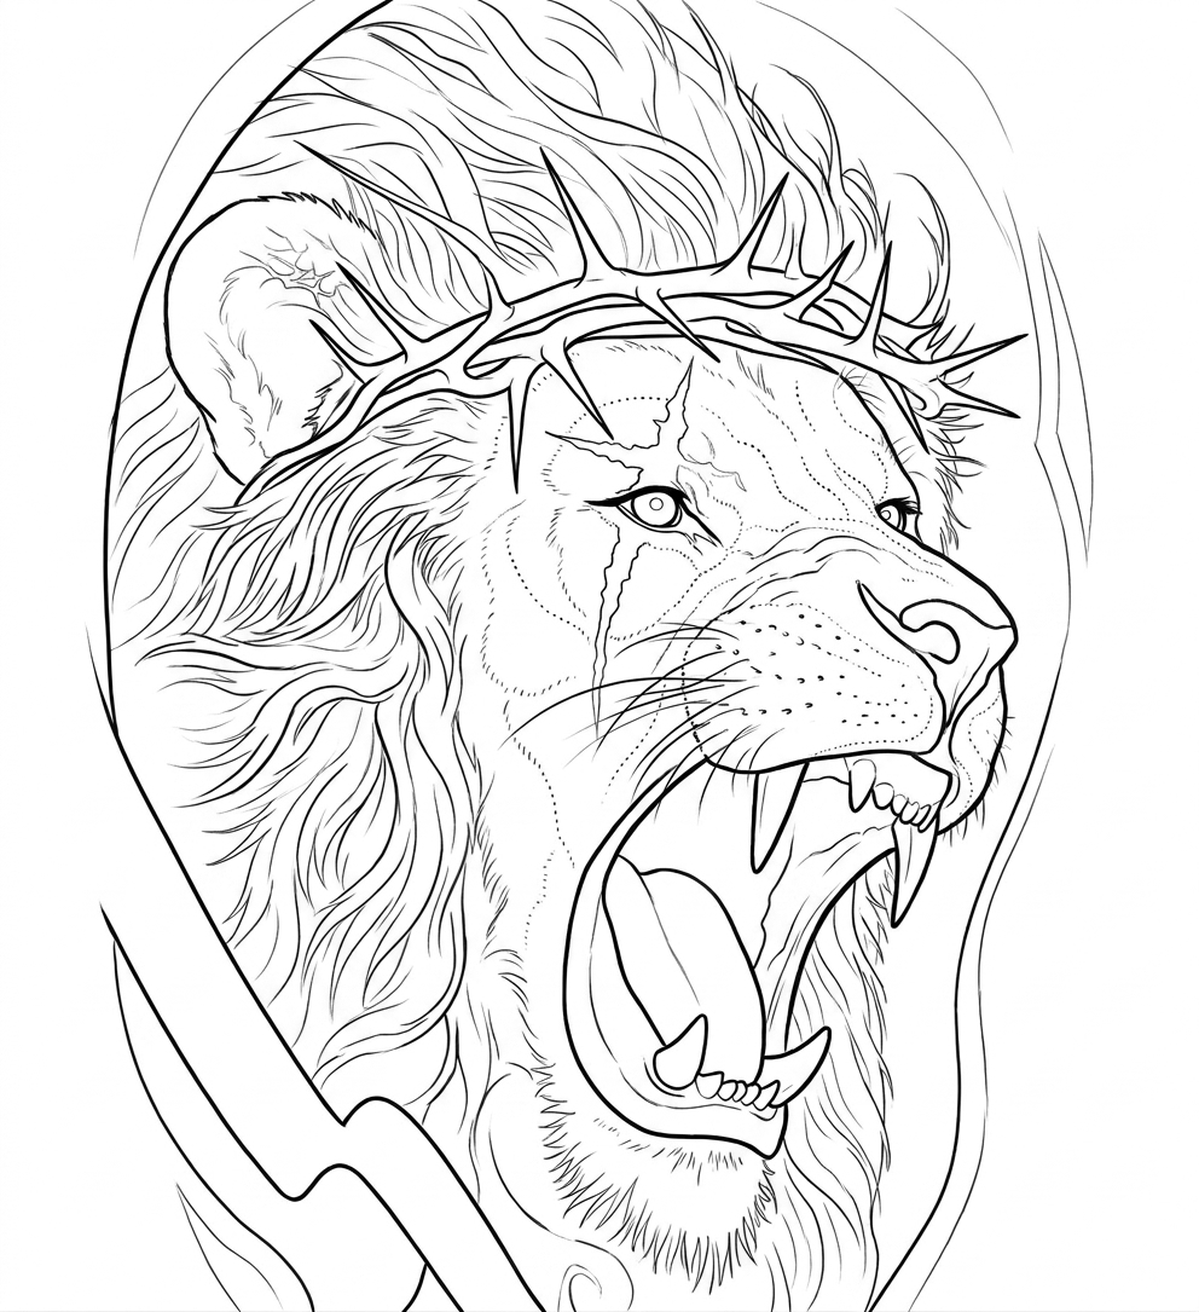
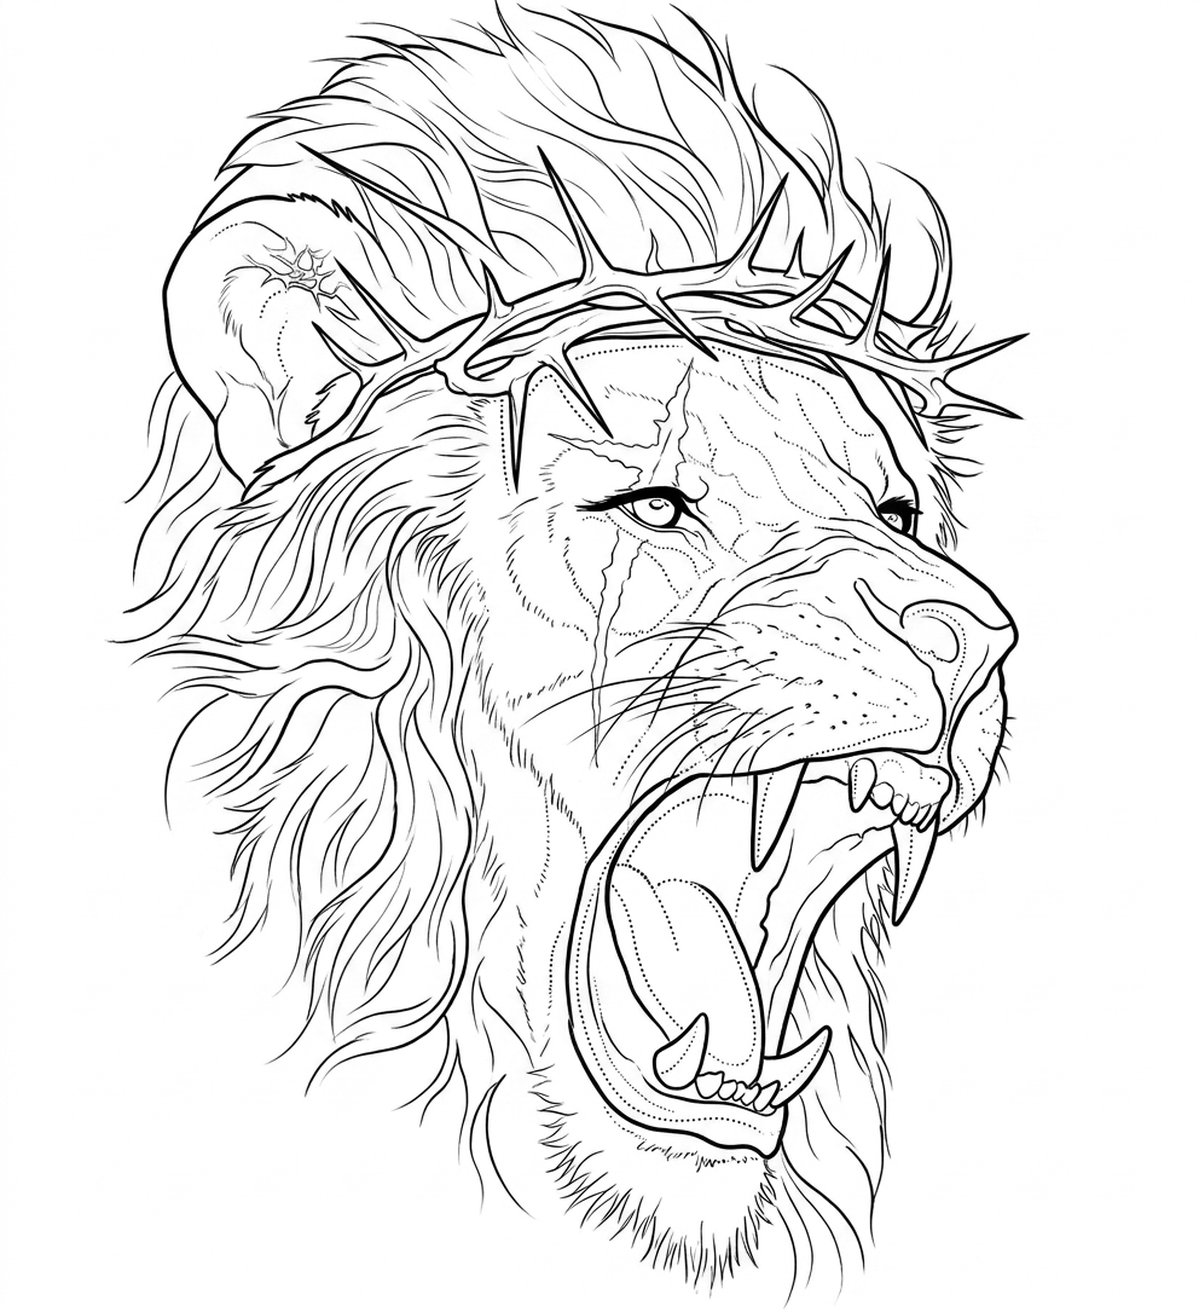
auto-commit for 01456510-71de-4d0c-8193-94803b8bcb97

diff --git a/backend/static/blueprint_heavy.html b/backend/static/blueprint_heavy.html
@@ -26,7 +26,9 @@ h2{color:#c9a227;font-size:18px;margin:18px 0 10px}
     <li><b>Consistency:</b> <code>temperature=0.0</code> is now the default. Same reference → consistent structure → predictable line placement.</li>
     <li><b>Post-processing:</b> Otsu thresholding removed. Grayscale line values preserved → anti-aliased edges, line-weight variation, and dotted-line integrity now match the raw AI output. Background still removed via alpha channel (transparent PNG).</li>
     <li><b>Refinement pass:</b> controlled clarity lift — subtle strand break-up (~10–15%), directional micro-lines + highlight-flow guides in hair, slightly clearer plane-change transitions on the face. No density increase, no fuzz. New marks REPLACE weak lines; they do not stack.</li>
-    <li><b>Depth refinement (universal, subject-agnostic):</b> ~10–15% lift in <b>secondary material zones</b> only — zones detected by these properties (not object names): layered structures behind the focal subject, repeating forms, directional-flow surfaces, or overlapping forms behind focal features. Face / focal area / primary contours / line hierarchy unchanged. Core rule: detail increases only as structural priority decreases.</li>
+    <li><b>Depth refinement (universal, subject-agnostic):</b> ~10–15% lift in secondary material zones — now also covers recessed / interior / concave regions, complex-depth structures (overlapping spikes/barbs/rings/segments), and any region where the reference shows dense structural texture the output is under-representing. Zones detected by properties, not object names.</li>
+    <li><b>DOTTED tier de-scoped:</b> depth-cue dotted guides may be placed anywhere form has significant depth change, recession, or interior hollow — no longer limited to the face.</li>
+    <li><b>Structural Density Matching:</b> where the reference shows dense intricate structure, the stencil must represent it with proportional line work. "Selective" means "don't blanket evenly" — NOT "skip detail-rich regions".</li>
     <li><b>Detail priority:</b> STRUCTURE > FLOW > TEXTURE. Readability always wins.</li>
     <li><b>Removed entirely:</b> fill logic, shading generation, structure-altering "enhancement", random black region creation.</li>
   </ul>

diff --git a/backend/server.py b/backend/server.py
@@ -1960,9 +1960,15 @@ def build_blueprint_prompt(line_color: str, detail_level: str) -> str:
             "   - a layered structure sitting BEHIND the primary focal element;\n"
             "   - a repeating form (strand fields, weave, grain, bark, scale, etc.);\n"
             "   - a surface material with directional flow;\n"
-            "   - overlapping forms that sit behind focal features.\n"
-            "Do not name what the zone is — detect it by these properties in the "
-            "reference and treat it accordingly.\n"
+            "   - overlapping forms that sit behind focal features;\n"
+            "   - a recessed / interior / concave region (anything that reads as an "
+            "     opening, cavity, or hollow in the reference);\n"
+            "   - a complex-depth structure made of multiple small overlapping parts "
+            "     (spikes, barbs, points, rings, segmented forms, cluster geometry);\n"
+            "   - any region where the reference clearly shows DENSE structural "
+            "     texture that the current output is underrepresenting.\n"
+            "Detect zones by these properties — do not name the object. The same "
+            "rules must behave the same way on any uploaded image.\n"
             "\n"
             "Inside qualifying zones only:\n"
             "   - Slightly increase line density (~10–15%).\n"
@@ -1970,6 +1976,11 @@ def build_blueprint_prompt(line_color: str, detail_level: str) -> str:
             "     a distinct plane from front layers.\n"
             "   - Add directional flow lines where structure genuinely exists in the "
             "     reference.\n"
+            "   - For complex-depth and recessed zones: add structural outlines for "
+            "     each sub-part you can see (individual spikes/barbs, individual "
+            "     overlapping segments, individual interior forms). Dotted depth cues "
+            "     may be placed where overlap / recession creates significant depth "
+            "     change. These are line work, not fills, not shading.\n"
             "\n"
             "Outside qualifying zones:\n"
             "   - Focal area / face: unchanged.\n"
@@ -1985,7 +1996,25 @@ def build_blueprint_prompt(line_color: str, detail_level: str) -> str:
             "     same way for any uploaded image.\n"
             "   - Every added mark must improve layer SEPARATION, not density within "
             "     a single layer, and must describe structure actually visible in "
-            "     the reference."
+            "     the reference.\n"
+            "\n"
+            "STRUCTURAL DENSITY MATCHING (universal):\n"
+            "Where the reference shows dense, intricate STRUCTURE in a region (many "
+            "small overlapping forms, tight interior detail, rich surface relief), "
+            "the stencil MUST represent that structure with proportional structural "
+            "line work. 'Selective' texture means 'do not blanket the whole image "
+            "evenly' — it does NOT mean 'skip detail-rich regions'. A region that "
+            "is structurally dense in the reference is, by definition, a qualifying "
+            "secondary zone. If a region in the reference shows clearly more "
+            "structure than the current output captures, add that structure (as line "
+            "work, within the noise budget) rather than omit it.\n"
+            "Hard caveats:\n"
+            "   - Added structure must describe real form in the reference — not "
+            "     invented texture or shading.\n"
+            "   - Line-weight hierarchy still applies (new marks sit at Tertiary or "
+            "     Dotted, never Primary).\n"
+            "   - The ZERO-FILL rule still applies. Dark reference regions become "
+            "     outlines and overlapping line work — never fills."
         ),
     }
     detail_text = detail_blocks.get(detail_level, detail_blocks["moderate"])
@@ -2012,7 +2041,7 @@ LINE WEIGHT HIERARCHY — four visibly distinct tiers. Lines MUST NOT be uniform
 - PRIMARY (bold): outer contours, silhouette, foreground elements, major structural boundaries (head/body outline, jawline, crown/antlers outer edge).
 - SECONDARY (medium): internal structure, facial features (eyes, brows, nose, lips), major forms, key folds and creases, feature boundaries, major hair-mass groupings.
 - TERTIARY (fine): texture, hair flow, fur direction, secondary detail, small surface marks, minor wrinkles.
-- DOTTED (light): facial guides for the artist — cheeks, jawline, brow ridges, nose bridge, under eyes, lip volumes. Also used for transitions of form and light-placement hints on the face. Dotted marks stay at clean, readable dot size. They are line work, not fills. (Engaged at Heavy+ only — see DETAIL LEVEL below.)
+- DOTTED (light): guides for the artist at form transitions and depth cues — wherever the reference shows significant depth change, concave/recessed structure, interior/hollow regions, or overlapping layers of form. Applicable anywhere on the subject (face, accessories, hands, interior regions, etc.), not limited to the face. Dotted marks stay at clean, readable dot size. They are line work, not fills. (Engaged at Heavy+ — see DETAIL LEVEL below.)
 The four tiers MUST be visibly separated. A tattoo artist must be able to tell foreground from background, and structure from texture, at a glance.
 
 FINE-LINE REFINEMENTS (extremely important for readable tattoo transfer — applies at every detail level):
